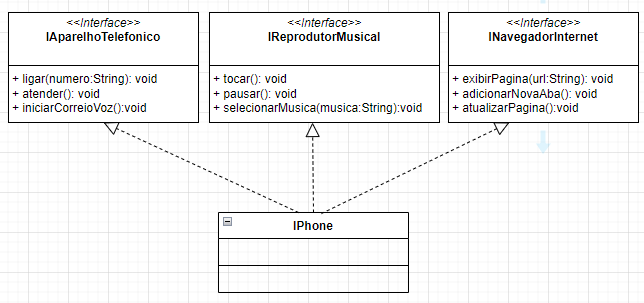
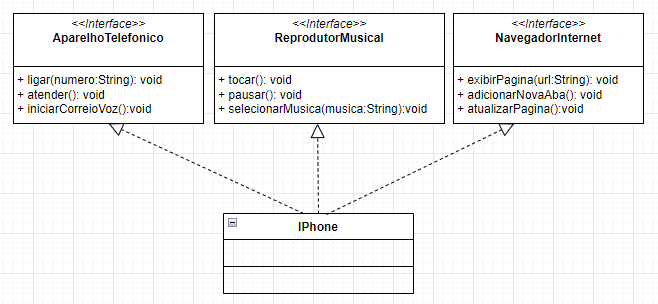
atualizaçao do projeto

diff --git a/projeto-desafio-dio-poo/src/desafio/modelo/IPhone.java b/projeto-desafio-dio-poo/src/desafio/modelo/IPhone.java
@@ -1,10 +1,10 @@
 package desafio.modelo;
 
-import desafio.servico.IAparelhoTelefonico;
-import desafio.servico.INavegadorInternet;
-import desafio.servico.IReprodutorMusical;
+import desafio.servico.AparelhoTelefonico;
+import desafio.servico.NavegadorInternet;
+import desafio.servico.ReprodutorMusical;
 
-public class IPhone implements IAparelhoTelefonico, IReprodutorMusical, INavegadorInternet {
+public class IPhone implements AparelhoTelefonico, ReprodutorMusical, NavegadorInternet {
 
     @Override
     public void exibirPagina(String url) {

diff --git a/projeto-desafio-dio-poo/src/desafio/servico/NavegadorInternet.java b/projeto-desafio-dio-poo/src/desafio/servico/NavegadorInternet.java
@@ -1,6 +1,6 @@
 package desafio.servico;
 
-public interface INavegadorInternet {
+public interface NavegadorInternet {
 
     public abstract void exibirPagina(String url);
     public abstract void adicionarNovaAba();

diff --git a/projeto-desafio-dio-poo/src/desafio/servico/AparelhoTelefonico.java b/projeto-desafio-dio-poo/src/desafio/servico/AparelhoTelefonico.java
@@ -1,6 +1,6 @@
 package desafio.servico;
 
-public interface IAparelhoTelefonico {
+public interface AparelhoTelefonico {
 
     public abstract void ligar(String numero);
     public abstract void atender();

diff --git a/projeto-desafio-dio-poo/src/desafio/servico/ReprodutorMusical.java b/projeto-desafio-dio-poo/src/desafio/servico/ReprodutorMusical.java
@@ -1,6 +1,6 @@
 package desafio.servico;
 
-public interface IReprodutorMusical {
+public interface ReprodutorMusical {
 
     public abstract void tocar();
     public abstract void pausar();
